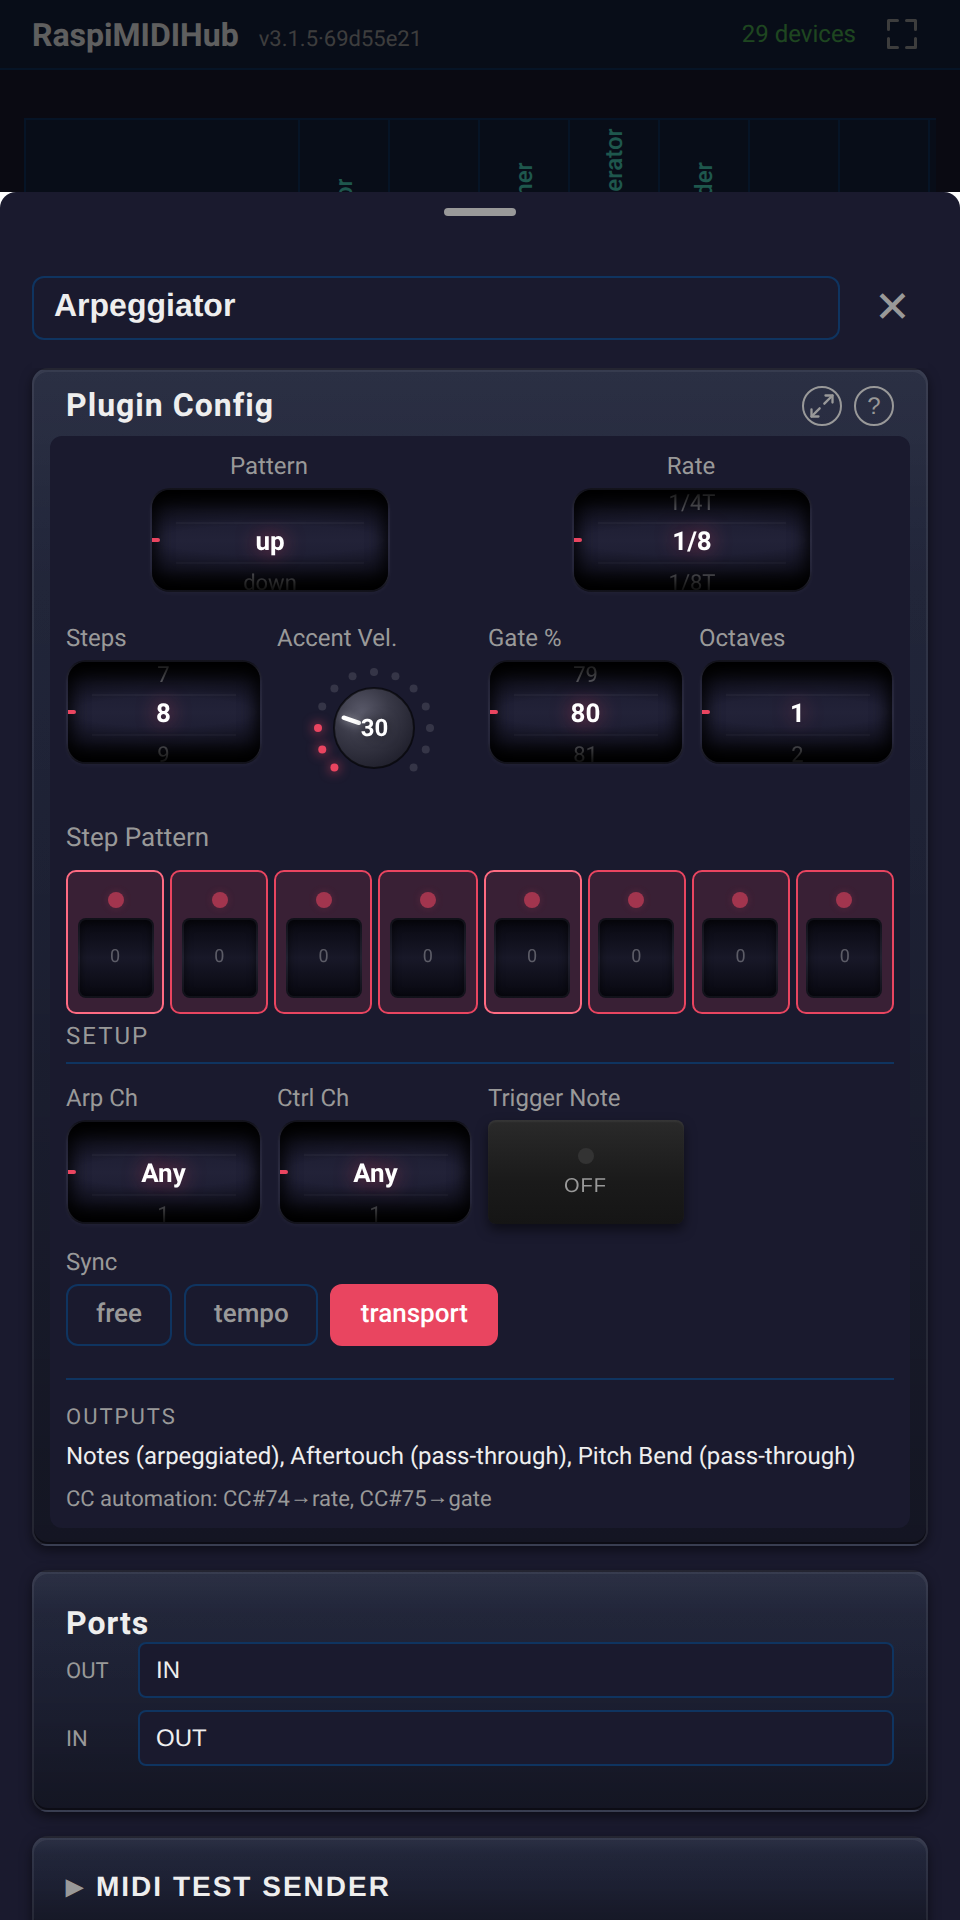
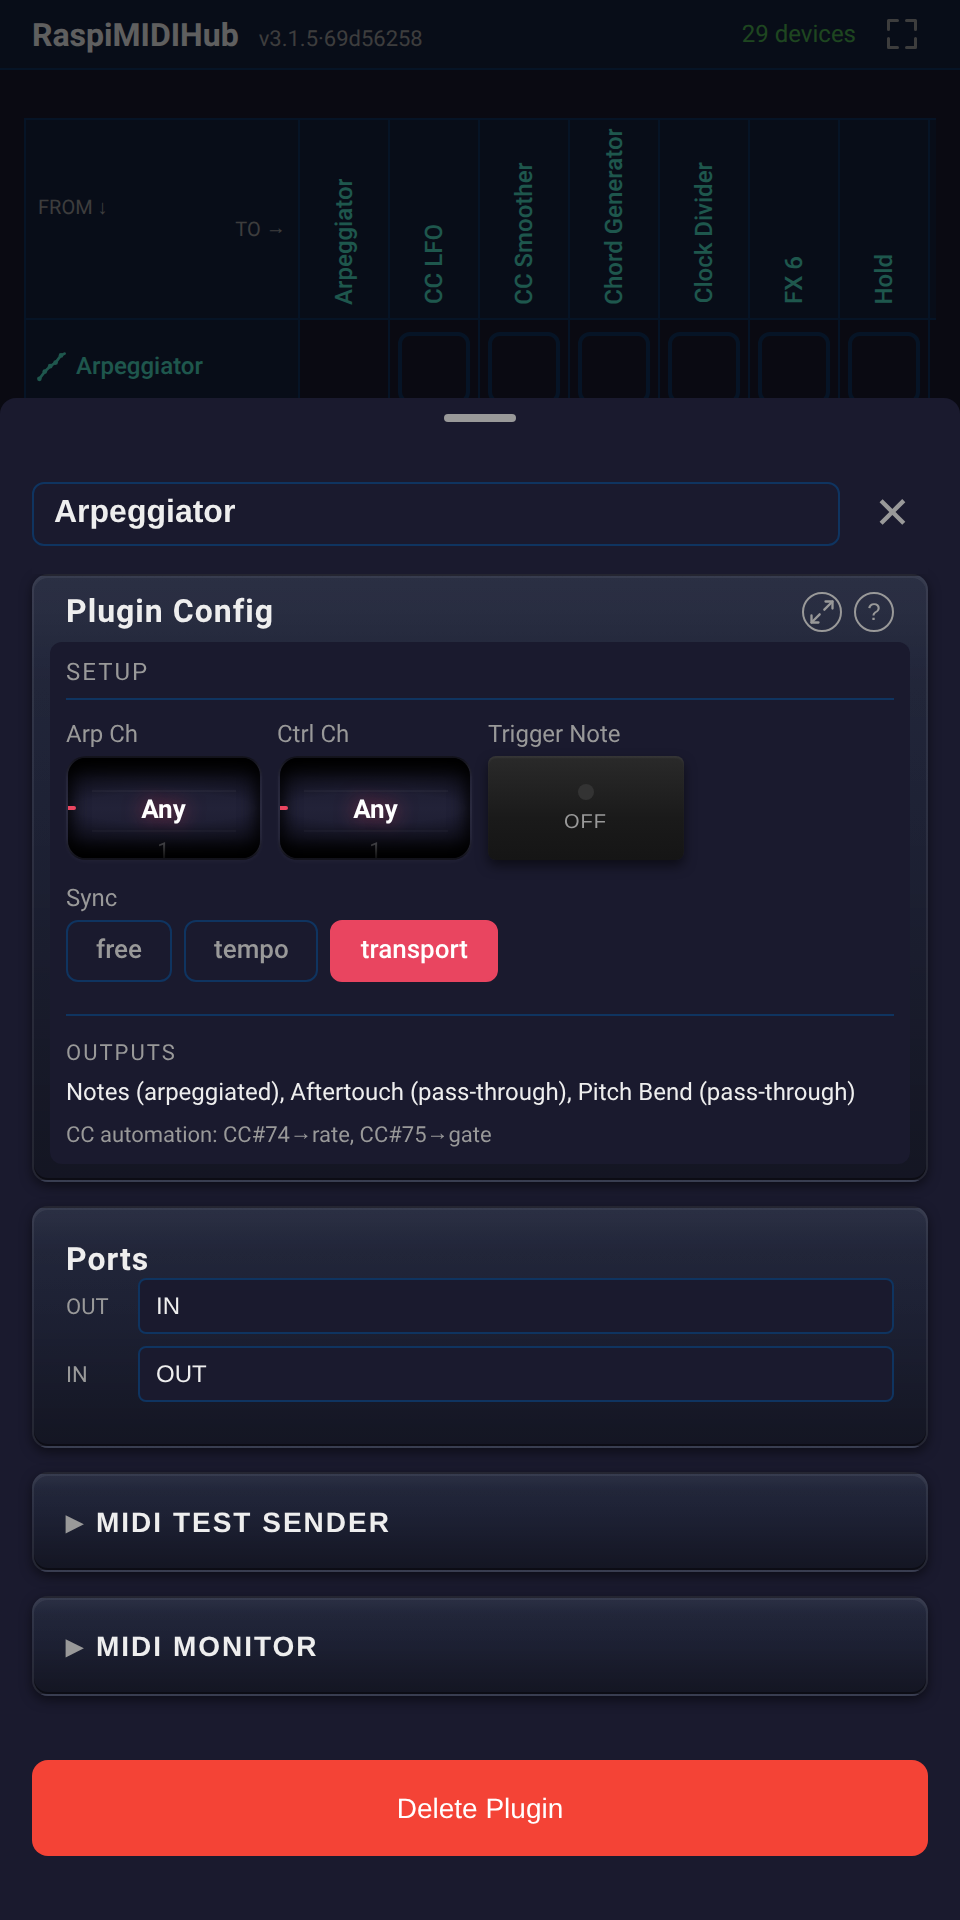
arp: hide play-surface params from device-detail config panel
The Pattern / Rate / Steps / Accent Vel / Gate % / Octaves /
Step Pattern controls already render fullscreen on the Play tab;
duplicating them in the slide-up device-detail panel was just
noise. Mark each with play_only=True; the Setup group (channel
filters, trigger note + base, sync mode + BPM) stays as the
config-panel content.

Generalised play_only handling: was special-cased inside the
trackergrid renderer, now filtered uniformly in renderParamList
and renderParamGroup (mirror of config_only). Group grows a
play_only field for symmetry. Tracker's TrackerGrid widget keeps
working unchanged — its play_only flag now flows through the
generic path.

diff --git a/src/raspimidihub/static/components/renderparam.js b/src/raspimidihub/static/components/renderparam.js
@@ -110,11 +110,9 @@ export function renderParam(param, values, onChange, allValues, displayCtx) {
                 onChange=${onChange} displayCtx=${displayCtx}
                 renderParam=${renderParam} />`;
         case 'trackergrid':
-            // play_only — never render in the device-detail (config)
-            // panel; only on the /play surface where playOnly is true.
-            // The config card carries the per-track channel selectors
-            // + send-clock toggle; the grid itself isn't useful there.
-            if (param.play_only && !(displayCtx && displayCtx.playOnly)) return null;
+            // play_only filtering now happens generically in
+            // renderParamList / renderParamGroup; per-type opt-in
+            // is no longer needed here.
             return html`<${PluginTrackerGrid} param=${param} values=${values}
                 onChange=${onChange} displayCtx=${displayCtx} />`;
         default:
@@ -149,7 +147,11 @@ export function renderParamGroup(items, values, onChange, displayCtx, cols) {
         // config_only params (e.g. background colour picker) live in
         // the device-detail panel (which is now always in flat-config
         // mode for Controllers) and are hidden on play surfaces.
+        // play_only is the mirror — performance controls that already
+        // appear on the fullscreen Play surface, hidden from the
+        // device-detail panel so they don't render twice.
         if (p.config_only && playOnly) continue;
+        if (p.play_only && !playOnly) continue;
         const rendered = renderParam(p, values, onChange, values, displayCtx);
         if (!rendered) continue;
         if (INLINE_TYPES.has(p.type)) inlineRun.push(applySpan(rendered, p.span));
@@ -165,6 +167,7 @@ export function renderParamList(params, values, onChange, displayCtx) {
     const expanded = [];
     for (const p of params) {
         if (p.config_only && playOnly) continue;
+        if (p.play_only && !playOnly) continue;
         if (p.visible_when) {
             const cur = values[p.visible_when.param];
             const cv = p.visible_when.value;

diff --git a/plugins/arpeggiator/__init__.py b/plugins/arpeggiator/__init__.py
@@ -109,22 +109,25 @@ flips Rate, never plays."""
         # Play-surface controls. Pattern + Rate are wide wheels in the
         # top row (span=2 each → 4-col grid filled). The four shapers
         # auto-pack into the next row as inline wheels/knob. The Step
-        # Editor below spans the full row.
+        # Editor below spans the full row. All marked play_only so the
+        # device-detail panel doesn't duplicate them — power users
+        # still see them on the Play tab, the config card stays
+        # focused on the wiring choices.
         Wheel("pattern", "Pattern",
               min=0, max=len(_PATTERN_OPTIONS) - 1,
               labels=_PATTERN_OPTIONS, default=0,
-              wide=True, span=2),
+              wide=True, span=2, play_only=True),
         Wheel("rate", "Rate",
               min=0, max=len(_RATE_OPTIONS) - 1,
               labels=_RATE_OPTIONS, default=_DEFAULT_RATE_IDX,
-              wide=True, span=2),
-        Wheel("step_count", "Steps", min=1, max=32, default=8),
-        Knob("accent_vel", "Accent Vel.", min=0, max=127, default=30),
-        Wheel("gate", "Gate %", min=10, max=100, default=80),
-        Wheel("octaves", "Octaves", min=1, max=4, default=1),
+              wide=True, span=2, play_only=True),
+        Wheel("step_count", "Steps", min=1, max=32, default=8, play_only=True),
+        Knob("accent_vel", "Accent Vel.", min=0, max=127, default=30, play_only=True),
+        Wheel("gate", "Gate %", min=10, max=100, default=80, play_only=True),
+        Wheel("octaves", "Octaves", min=1, max=4, default=1, play_only=True),
         StepEditor("steps", "Step Pattern", length_param="step_count",
                    default_length=8, default_on=True, span=4,
-                   slot_notes_param="step_slot_notes"),
+                   slot_notes_param="step_slot_notes", play_only=True),
         # Config-only setup. Channel filters, rate-trigger plumbing
         # and the sync-mode + BPM live here — touched on initial
         # wiring, never during a set.

diff --git a/src/raspimidihub/plugin_api.py b/src/raspimidihub/plugin_api.py
@@ -48,6 +48,12 @@ class Param:
     # (Routing tab) and hidden on play surfaces (Controller fullscreen
     # page). Used for instance-level meta config like background colour.
     config_only: bool = field(default=False, kw_only=True)
+    # Inverse of `config_only` — if True, this param renders only on
+    # the /play surface (where displayCtx.playOnly is set) and is
+    # hidden from the device-detail config panel. Used for performance
+    # controls that would duplicate / crowd the same params already
+    # visible in fullscreen.
+    play_only: bool = field(default=False, kw_only=True)
 
     def to_dict(self) -> dict:
         d = {"type": self.__class__.__name__.lower(), "name": self.name, "label": self.label}
@@ -57,6 +63,8 @@ class Param:
             d["span"] = self.span
         if self.config_only:
             d["config_only"] = True
+        if self.play_only:
+            d["play_only"] = True
         return d
 
 
@@ -251,6 +259,7 @@ class Group:
     children: list = field(default_factory=list)
     cols: int | None = None  # override default 4-col grid for this group's inline row
     config_only: bool = False
+    play_only: bool = False  # mirror of config_only — hide the whole group from device-detail
     # Same shape as Param.visible_when — (param_name, value_or_list).
     # When set, the whole group (title + children) hides if the named
     # param's current value doesn't match.
@@ -266,6 +275,8 @@ class Group:
             d["cols"] = self.cols
         if self.config_only:
             d["config_only"] = True
+        if self.play_only:
+            d["play_only"] = True
         if self.visible_when:
             d["visible_when"] = {"param": self.visible_when[0], "value": self.visible_when[1]}
         return d